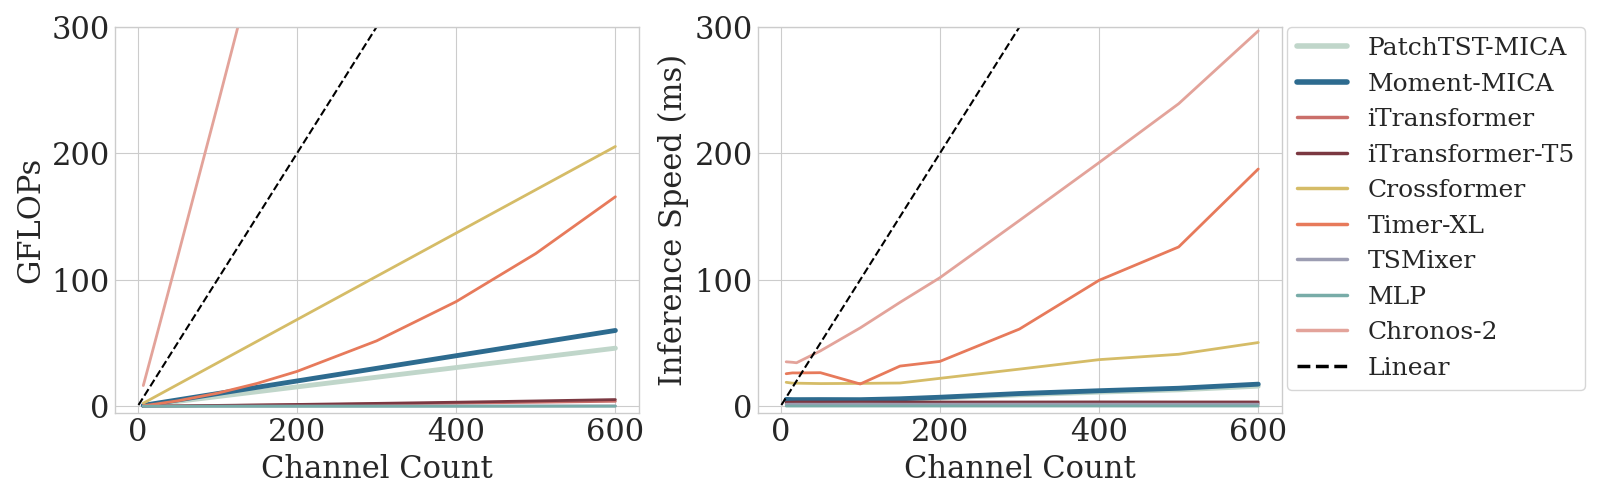
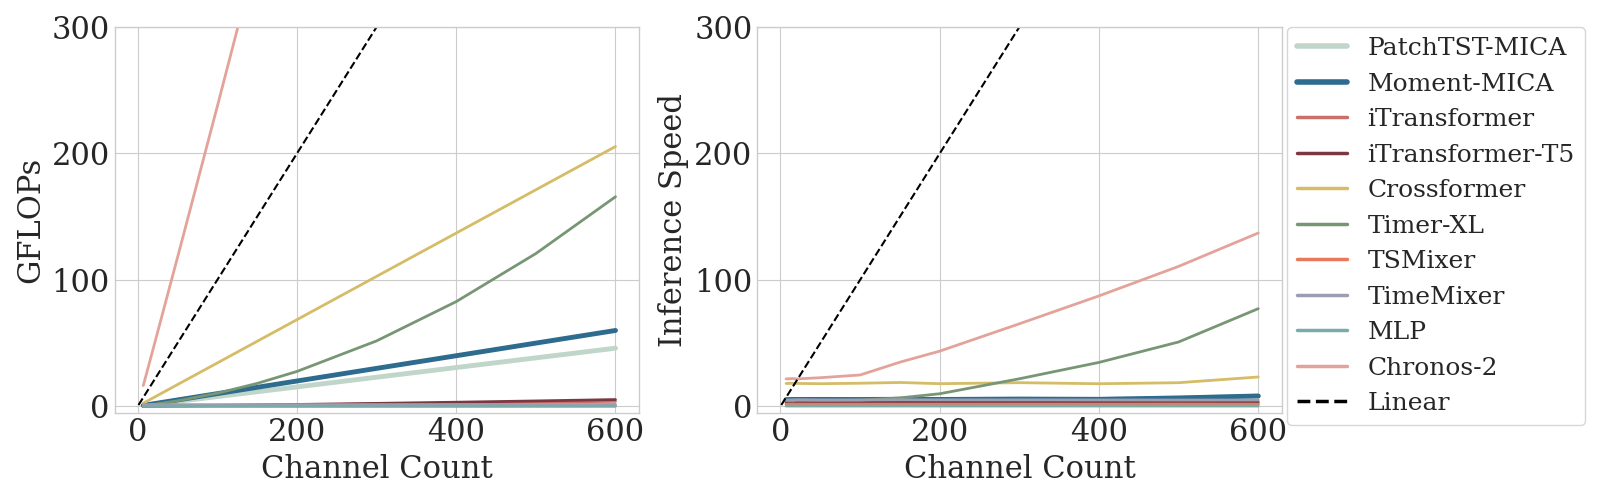
readme update

diff --git a/README.md b/README.md
@@ -28,8 +28,19 @@ ____
 
 <br>
 
+---
+
+<br>
+
 ![flops](channel_scale_parameter_impact_figure.png)
 **Figure**: GFLOPs and inference speed (ms) as a function of channel count ($C=[7, 600]$).
+
+![flops](channel_scale_parameter_impact_log_figure.png)
+**Figure**: GFLOPs (log_10) and inference speed (ms) (log_10) as a function of channel count ($C=[7, 600]$).
+
+<br>
+
+---
 
 <br>
 
@@ -48,6 +59,10 @@ ____
 | Solar | D | 258.389 (1.663) | **252.718** (1.232) | 254.602 (1.290) | <u>252.852</u> (2.516) |
 | | W | 1127.889 (20.369) | **1058.990** (38.140) | 1067.190 (25.051) | <u>1060.330</u> (46.974) |
 | **Average Rank** | | 3.6 | **1.7** | 2.4 | 2.3 |
+
+<br>
+
+---
 
 <br>
 
